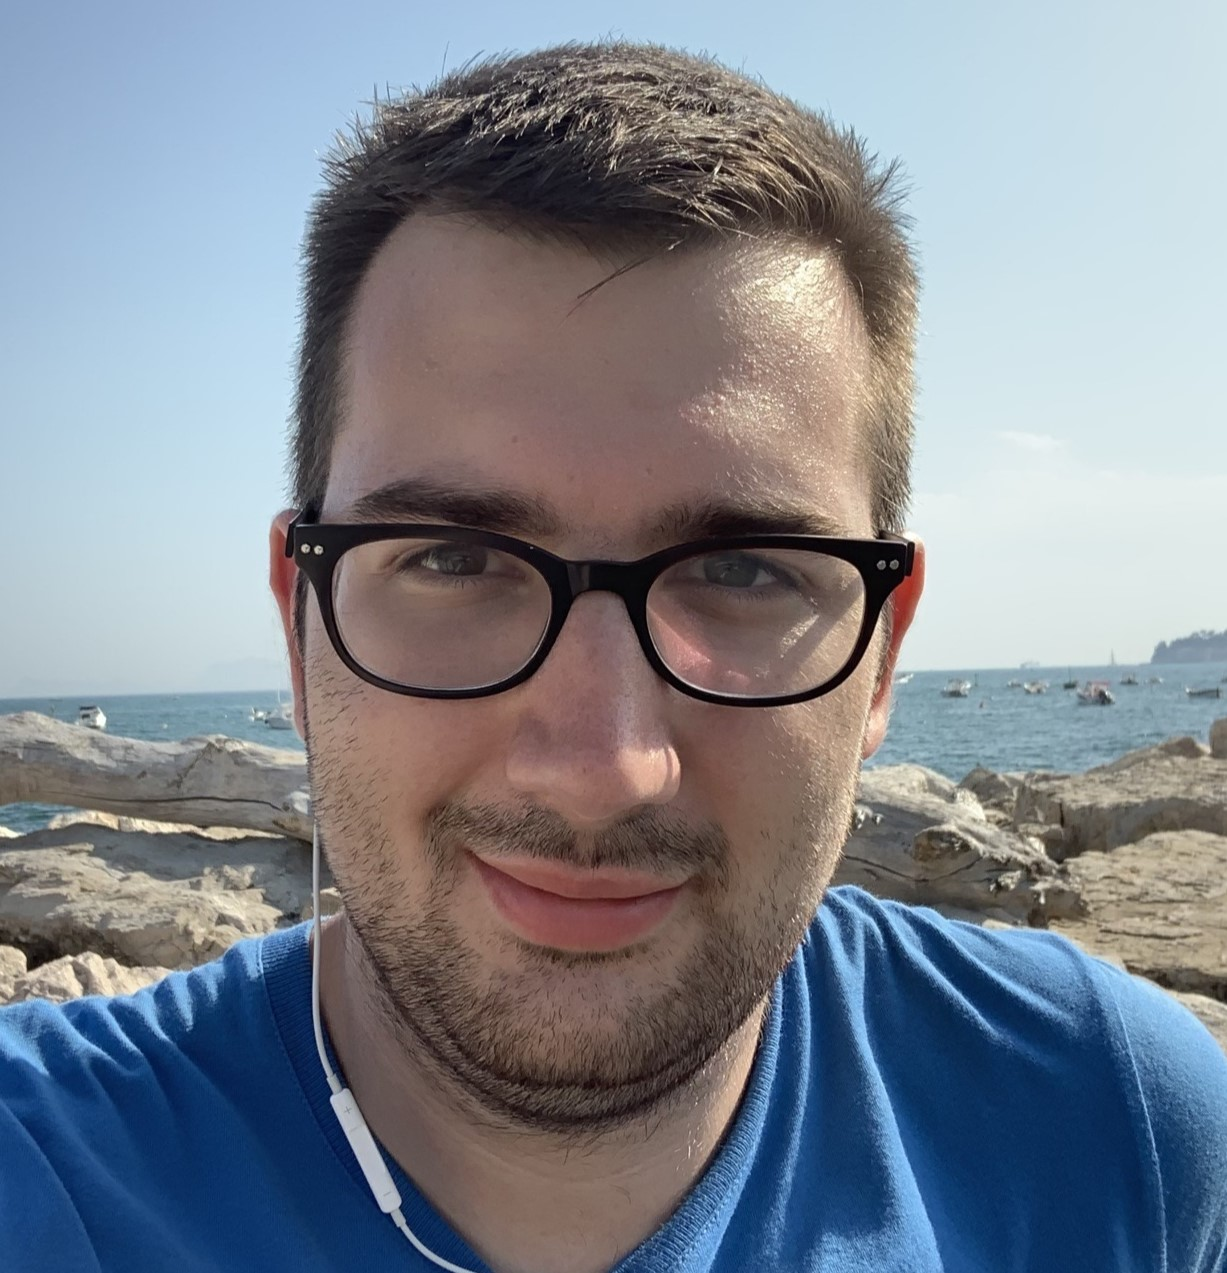
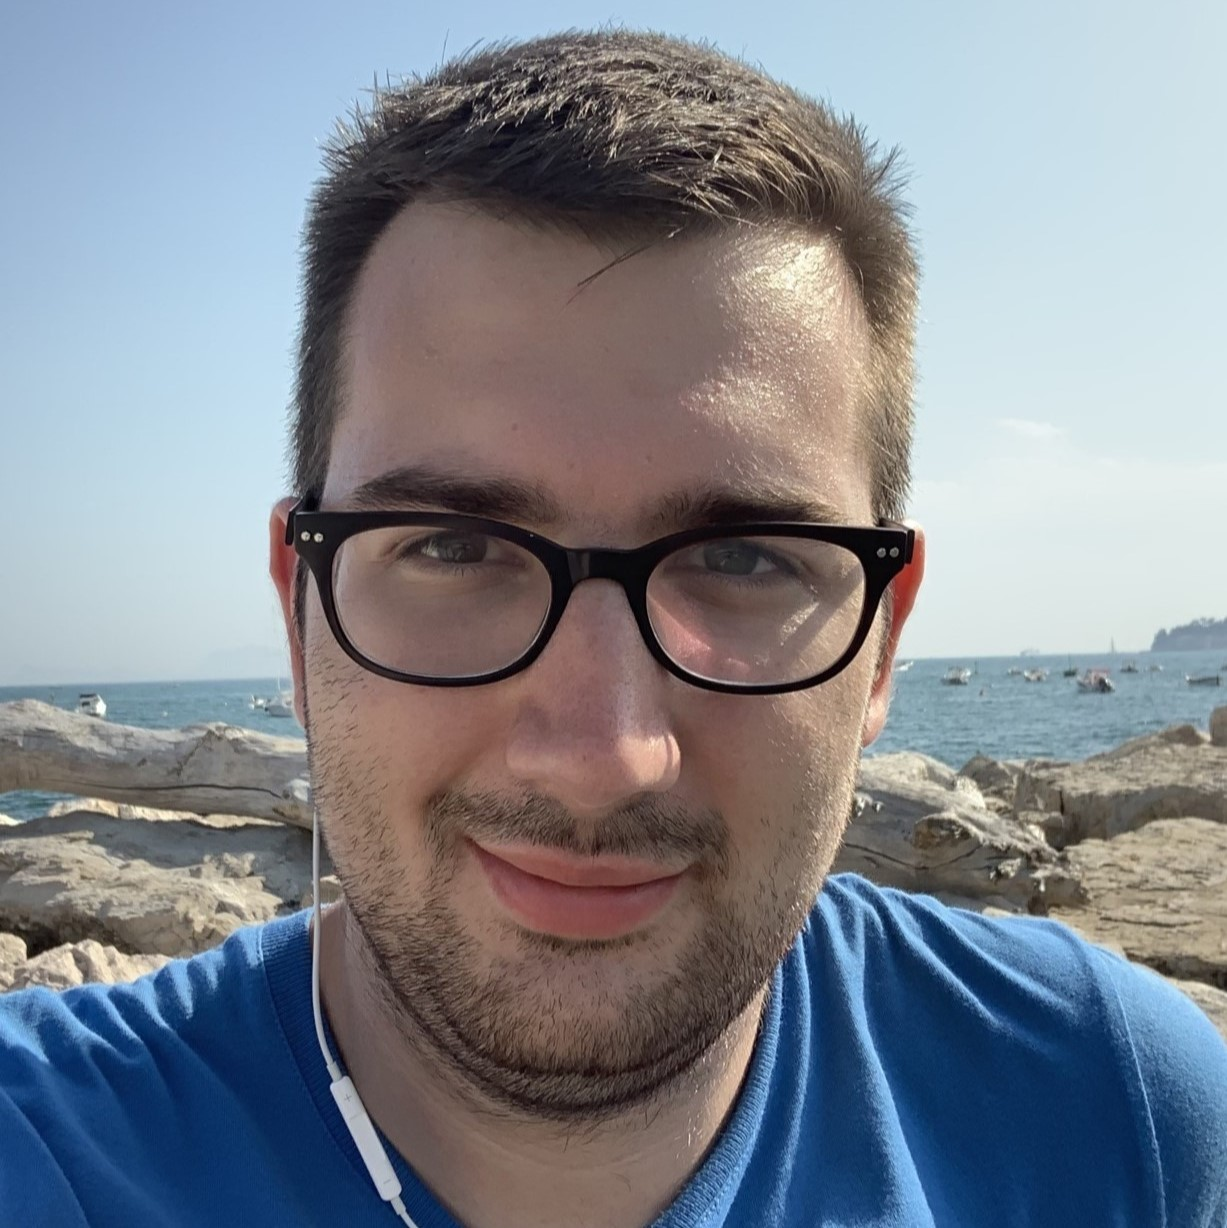
About terminato, header modificato, nuove immagini nello storage

diff --git a/Server/Authentication/static/about.html b/Server/Authentication/static/about.html
@@ -58,12 +58,7 @@
   <!--Nuovo Header-->
   <div class="row1">
     <div class="coloumn-headersx">
-      <div class="coloumnLogo">
-        <span><img src="/storage/logo.png" id="logo-header" /> </span>
-      </div>
-      <div class="coloumnTitolo">
-        <p> GOING</p>
-      </div>
+        <img src="/storage/logoGoing1.png" id="logo-header"/>
     </div>
     <div class="coloumn-headerdx">
       <div class="topnav">
@@ -92,7 +87,7 @@
     </div>
       <div class="column">
         <div class="card">
-          <img src="/storage/297541693_398970455626213_4706350024009549826_n.jpg" alt="Matteo"/>
+          <img src="/storage/MM.jpeg" alt="Matteo"/>
           <div class="container">
             <h2>Matteo Maraniello</h2>
             <p class="title">Ingegnere Informatico</p>
@@ -104,7 +99,7 @@
 
       <div class="column">
         <div class="card">
-          <img src="/storage/297541693_398970455626213_4706350024009549826_n.jpg" alt="Valerio"/>
+          <img src="/storage/VM.jpg" alt="Valerio"/>
           <div class="container">
             <h2>Valerio<br>Mennillo</h2>
             <p class="title">Ingegnere Informatico</p>

diff --git a/Server/Authentication/static/create.html b/Server/Authentication/static/create.html
@@ -11,7 +11,6 @@
   <link rel="icon" href="/storage/favicon.jpg" type="image/jpg" />
 
   <link rel="stylesheet" href="/static/going.css">
-  <link rel="stylesheet" href="/static/Explore.css">
   <link rel="stylesheet" href="/static/header.css">
   <link rel="stylesheet" href="/static/create.css">
   <link rel="stylesheet" href="/static/roadmap.css">
@@ -78,13 +77,8 @@
   <!--Nuovo Header-->
   <div class="row1">
     <div class="coloumn-headersx">
-      <div class="coloumnLogo">
-        <span><img src="/storage/logo.png" id="logo-header" /> </span>
-      </div>
-      <div class="coloumnTitolo">
-        <p> GOING</p>
-      </div>
-    </div>
+      <img src="/storage/logoGoing1.png" id="logo-header"/>
+  </div>
     <div class="coloumn-headerdx">
       <div class="topnav">
         <a id="home_header" href="/"> HOMEPAGE</a>

diff --git a/Server/Authentication/static/registrazione.html b/Server/Authentication/static/registrazione.html
@@ -66,12 +66,7 @@
             <!--Nuovo Header-->
             <div class="row1">
                 <div class="coloumn-headersx">
-                <div class="coloumnLogo">
-                    <span><img src="/storage/logo.png" id="logo-header" /> </span>
-                </div>
-                <div class="coloumnTitolo">
-                    <p> GOING</p>
-                </div>
+                    <img src="/storage/logoGoing1.png" id="logo-header"/>
                 </div>
                 <div class="coloumn-headerdx">
                 <div class="topnav">

diff --git a/Server/Authentication/static/header.css b/Server/Authentication/static/header.css
@@ -13,12 +13,17 @@
 }
 
 #logo-header {
-	height: 100%;
+	height: 70%;
+	align-items: center;
+	position: relative;
+    top: 50%;
+    left: 50%;
+    transform: translate(-50%, -50%);
 }
 
 .coloumn-headersx {
 	float: left;
-	width: 30%;
+	width: 20%;
 	height: 100%;
 	background-color: black;
 	font-family: "Poppins", sans-serif;
@@ -26,7 +31,7 @@
 
 .coloumn-headerdx {
 	float: left;
-	width: 60%;
+	width: 70%;
 	height: 100%;
 	background-color: black;
 	font-family: "Poppins", sans-serif;

diff --git a/Server/Authentication/static/Explore.html b/Server/Authentication/static/Explore.html
@@ -65,13 +65,8 @@
   <!--Nuovo Header-->
   <div class="row1">
     <div class="coloumn-headersx">
-      <div class="coloumnLogo">
-        <span><img src="/storage/logo.png" id="logo-header" /> </span>
-      </div>
-      <div class="coloumnTitolo">
-        <p> GOING</p>
-      </div>
-    </div>
+      <img src="/storage/logoGoing1.png" id="logo-header"/>
+  </div>
     <div class="coloumn-headerdx">
       <div class="topnav">
         <a id="home_header" href="/"> HOMEPAGE</a>

diff --git a/Server/Authentication/static/info.html b/Server/Authentication/static/info.html
@@ -56,13 +56,8 @@
   <!--Nuovo Header-->
   <div class="row1">
     <div class="coloumn-headersx">
-      <div class="coloumnLogo">
-        <span><img src="/storage/logo.png" id="logo-header" /> </span>
-      </div>
-      <div class="coloumnTitolo">
-        <p> GOING</p>
-      </div>
-    </div>
+      <img src="/storage/logoGoing1.png" id="logo-header"/>
+  </div>
     <div class="coloumn-headerdx">
       <div class="topnav">
         <a id="home_header" href="/"> HOMEPAGE</a>

diff --git a/Server/Authentication/static/Profile.html b/Server/Authentication/static/Profile.html
@@ -62,12 +62,7 @@
   <!--Nuovo Header-->
   <div class="row1">
     <div class="coloumn-headersx">
-      <div class="coloumnLogo">
-        <span><img src="/storage/logo.png" id="logo-header" /> </span>
-      </div>
-      <div class="coloumnTitolo">
-        <p> GOING</p>
-      </div>
+        <img src="/storage/logoGoing1.png" id="logo-header"/>
     </div>
     <div class="coloumn-headerdx">
       <div class="topnav">

diff --git a/Server/Authentication/static/Profile.css b/Server/Authentication/static/Profile.css
@@ -1,8 +1,10 @@
 /* Stile Body */
-
 body {
-    background-color: #435165;
-}
+    box-sizing: border-box;
+    background-image: url(/storage/sfondoProva2.jpg);
+    background-size: cover;
+    background-attachment: fixed;
+  }
 
 /* Stile Contenuto */
 

diff --git a/Server/Authentication/static/Explore.css b/Server/Authentication/static/Explore.css
@@ -1,3 +1,10 @@
+html {
+    box-sizing: border-box;
+    background-image: url(/storage/sfondoProva2.jpg);
+    background-size: cover;
+    background-attachment: fixed;
+  }
+
 .search-container {
     float: center;
 }
